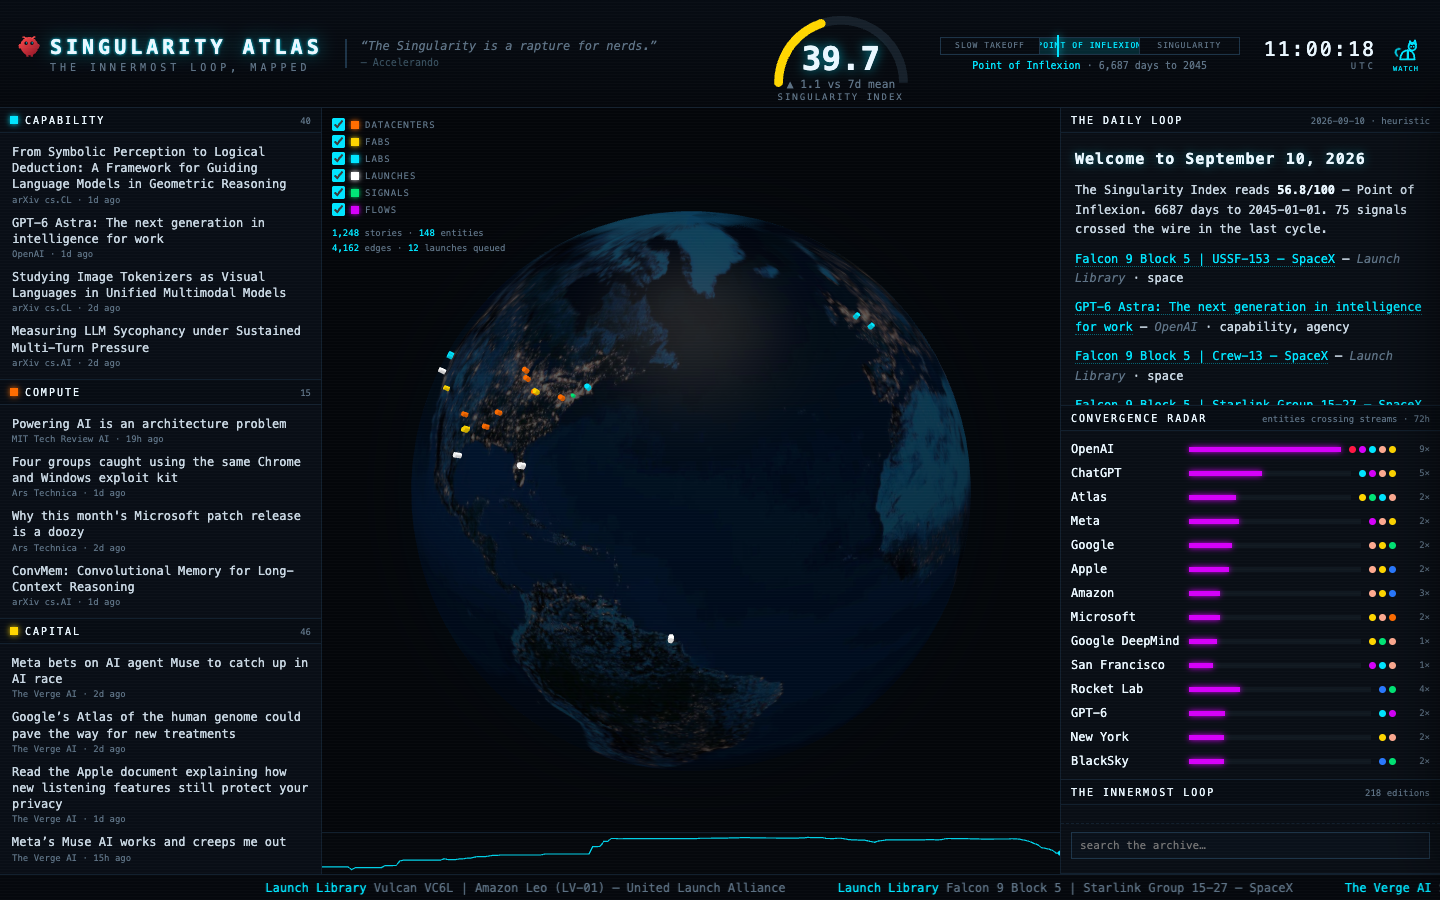
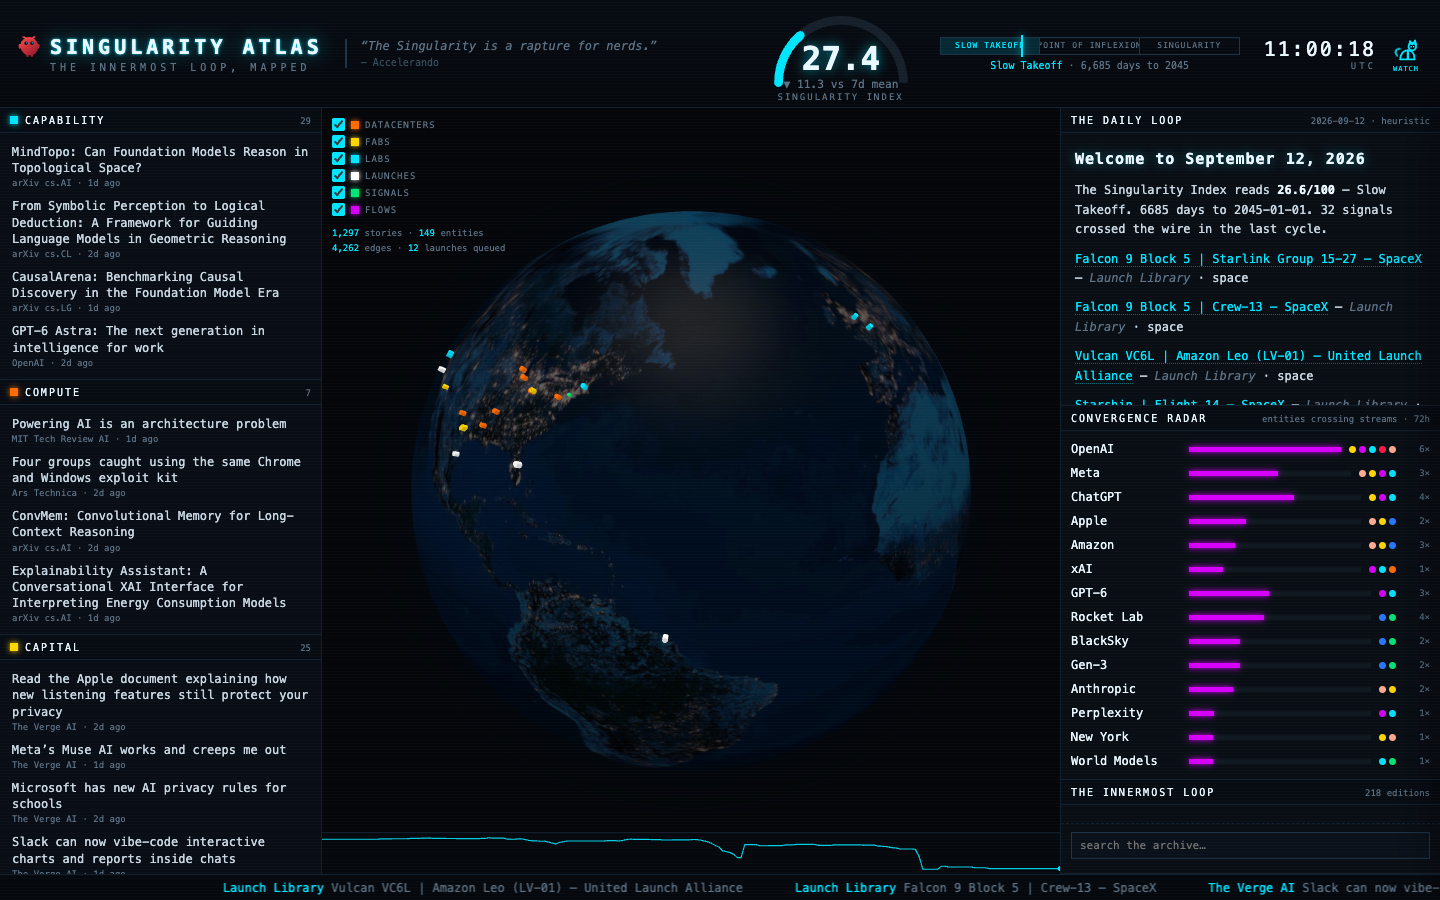
Publish 24h public snapshot 2026-09-12

diff --git a/docs/index.html b/docs/index.html
@@ -47,40 +47,39 @@
     <div class="eyebrow">Public 24h snapshot · not the live globe</div>
     <h1>The Singularity Atlas</h1>
     <p class="lede">Yesterday's board. The live dashboard stays on the machine that runs it. This page is replaced at least daily.</p>
-    <p class="meta">Captured 2026-09-11 07:00 EDT · 42 stories in 24h · graph 1248 stories / 148 entities · brief heuristic</p>
+    <p class="meta">Captured 2026-09-12 07:00 EDT · 31 stories in 24h · graph 1297 stories / 149 entities · brief heuristic</p>
   </header>
   <main>
     <div class="hero">
       <div>
-        <div class="si">39.7<small>Point of Inflexion · /100</small></div>
+        <div class="si">27.4<small>Slow Takeoff · /100</small></div>
       </div>
-      <div class="vecs"><div class="vec"><span class="dot" style="background:#00e5ff"></span><span class="vlabel">Capability</span><span class="vscore">40.3</span></div><div class="vec"><span class="dot" style="background:#ff6d00"></span><span class="vlabel">Compute</span><span class="vscore">14.5</span></div><div class="vec"><span class="dot" style="background:#ffd600"></span><span class="vlabel">Capital</span><span class="vscore">45.5</span></div><div class="vec"><span class="dot" style="background:#00e676"></span><span class="vlabel">Embodiment</span><span class="vscore">15.1</span></div><div class="vec"><span class="dot" style="background:#d500f9"></span><span class="vlabel">Agency</span><span class="vscore">40.5</span></div><div class="vec"><span class="dot" style="background:#ff1744"></span><span class="vlabel">Security</span><span class="vscore">14.7</span></div><div class="vec"><span class="dot" style="background:#2979ff"></span><span class="vlabel">Space</span><span class="vscore">68.0</span></div><div class="vec"><span class="dot" style="background:#ffab91"></span><span class="vlabel">Culture</span><span class="vscore">50.1</span></div></div>
+      <div class="vecs"><div class="vec"><span class="dot" style="background:#00e5ff"></span><span class="vlabel">Capability</span><span class="vscore">29.3</span></div><div class="vec"><span class="dot" style="background:#ff6d00"></span><span class="vlabel">Compute</span><span class="vscore">6.9</span></div><div class="vec"><span class="dot" style="background:#ffd600"></span><span class="vlabel">Capital</span><span class="vscore">25.2</span></div><div class="vec"><span class="dot" style="background:#00e676"></span><span class="vlabel">Embodiment</span><span class="vscore">8.2</span></div><div class="vec"><span class="dot" style="background:#d500f9"></span><span class="vlabel">Agency</span><span class="vscore">25.5</span></div><div class="vec"><span class="dot" style="background:#ff1744"></span><span class="vlabel">Security</span><span class="vscore">0.0</span></div><div class="vec"><span class="dot" style="background:#2979ff"></span><span class="vlabel">Space</span><span class="vscore">64.6</span></div><div class="vec"><span class="dot" style="background:#ffab91"></span><span class="vlabel">Culture</span><span class="vscore">28.2</span></div></div>
     </div>
     <img class="board" src="board.png" alt="The Singularity Atlas dashboard, last capture" />
     <div class="grid">
       <section class="brief">
         <h2>The Daily Loop</h2>
-        <h2>Welcome to September 10, 2026</h2>
-<p>The Singularity Index reads <strong>56.8/100</strong> — Point of Inflexion. 6687 days to 2045-01-01. 75 signals crossed the wire in the last cycle.</p>
-<p><a href="https://ll.thespacedevs.com/2.2.0/launch/3e0456da-14b1-4ac3-b59e-35fefb1d1530/">Falcon 9 Block 5 | USSF-153 — SpaceX</a> — *Launch Library* · space</p>
-<p><a href="https://openai.com/index/gpt-6-astra-next-generation-work">GPT-6 Astra: The next generation in intelligence for work</a> — *OpenAI* · capability, agency</p>
-<p><a href="https://ll.thespacedevs.com/2.2.0/launch/18441371-8b2e-457c-afb5-1ec1b11ab630/">Falcon 9 Block 5 | Crew-13 — SpaceX</a> — *Launch Library* · space</p>
+        <h2>Welcome to September 12, 2026</h2>
+<p>The Singularity Index reads <strong>26.6/100</strong> — Slow Takeoff. 6685 days to 2045-01-01. 32 signals crossed the wire in the last cycle.</p>
 <p><a href="https://ll.thespacedevs.com/2.2.0/launch/d1471f9d-e9d0-4146-8e97-90863e48bfc8/">Falcon 9 Block 5 | Starlink Group 15-27 — SpaceX</a> — *Launch Library* · space</p>
+<p><a href="https://ll.thespacedevs.com/2.2.0/launch/18441371-8b2e-457c-afb5-1ec1b11ab630/">Falcon 9 Block 5 | Crew-13 — SpaceX</a> — *Launch Library* · space</p>
 <p><a href="https://ll.thespacedevs.com/2.2.0/launch/ef9850ad-1096-425b-9d27-f7bbd186e61a/">Vulcan VC6L | Amazon Leo (LV-01) — United Launch Alliance</a> — *Launch Library* · space</p>
 <p><a href="https://ll.thespacedevs.com/2.2.0/launch/7d1afb26-6f9c-429b-9ccf-29012fd1e519/">Starship | Flight 14 — SpaceX</a> — *Launch Library* · space</p>
 <p><a href="https://ll.thespacedevs.com/2.2.0/launch/f4c720ce-0cfd-43e6-b8dd-00273073bc01/">Electron | StriX Launch 12 — Rocket Lab</a> — *Launch Library* · space</p>
+<p><a href="https://ll.thespacedevs.com/2.2.0/launch/ad358a4d-c541-409b-9366-9c2f2da4aeb9/">Falcon 9 Block 5 | O3b mPower 11-13 — SpaceX</a> — *Launch Library* · space</p>
+<p><a href="https://openai.com/index/scaling-storage-one-billion-users-part-one">Rapidly scaling online storage to serve over 1 billion ChatGPT users</a> — *OpenAI* · capital, agency, capability</p>
 <p><a href="https://ll.thespacedevs.com/2.2.0/launch/7bdc412b-c965-4517-a131-f57a01189803/">Ariane 64 Block 2 | Amazon Leo (LE-04) — Arianespace</a> — *Launch Library* · space</p>
+<p><a href="https://ll.thespacedevs.com/2.2.0/launch/b81156da-c0b8-46c8-aebd-8af8d2be83cd/">Electron | Happily Ever Faster (BlackSky Gen-3 5) — Rocket Lab</a> — *Launch Library* · space, embodiment</p>
 <p><a href="https://ll.thespacedevs.com/2.2.0/launch/da43dc2c-00af-4cc1-8ef1-90a60b2eb9e5/">Falcon 9 Block 5 | SDA Tranche 1 Transport Layer A — SpaceX</a> — *Launch Library* · space</p>
-<p><a href="https://arxiv.org/abs/2609.10335v1">From Symbolic Perception to Logical Deduction: A Framework for Guiding Language Models in Geometric Reasoning</a> — *arXiv cs.CL* · agency, capability, culture</p>
 <p>*Heuristic edition — local LLM offline.*</p>
       </section>
       <aside>
         <h2>Crossing streams</h2>
-        <ul><li><strong>OpenAI</strong> <span class="muted">security, agency, capability, culture, capital</span></li><li><strong>ChatGPT</strong> <span class="muted">capability, agency, culture, capital</span></li><li><strong>Atlas</strong> <span class="muted">capital, embodiment, capability, culture</span></li><li><strong>Meta</strong> <span class="muted">agency, culture, capital</span></li><li><strong>Google</strong> <span class="muted">culture, capital, embodiment</span></li><li><strong>Apple</strong> <span class="muted">culture, capital, space</span></li><li><strong>Amazon</strong> <span class="muted">culture, capital, space</span></li><li><strong>Microsoft</strong> <span class="muted">capital, culture, compute</span></li><li><strong>Google DeepMind</strong> <span class="muted">capital, embodiment, culture</span></li><li><strong>San Francisco</strong> <span class="muted">agency, capability, culture</span></li><li><strong>Rocket Lab</strong> <span class="muted">space, embodiment</span></li><li><strong>GPT-6</strong> <span class="muted">capability, agency</span></li></ul>
-        <h2>Feeds 13/15</h2>
+        <ul><li><strong>OpenAI</strong> <span class="muted">capital, agency, capability, security, culture</span></li><li><strong>Meta</strong> <span class="muted">culture, capital, agency, capability</span></li><li><strong>ChatGPT</strong> <span class="muted">capital, agency, capability</span></li><li><strong>Apple</strong> <span class="muted">culture, capital, space</span></li><li><strong>Amazon</strong> <span class="muted">culture, capital, space</span></li><li><strong>xAI</strong> <span class="muted">agency, capability, compute</span></li><li><strong>GPT-6</strong> <span class="muted">agency, capability</span></li><li><strong>Rocket Lab</strong> <span class="muted">space, embodiment</span></li><li><strong>BlackSky</strong> <span class="muted">space, embodiment</span></li><li><strong>Gen-3</strong> <span class="muted">space, embodiment</span></li><li><strong>Anthropic</strong> <span class="muted">culture, capital</span></li><li><strong>Perplexity</strong> <span class="muted">agency, capability</span></li></ul>
+        <h2>Feeds 14/15</h2>
         <ul><li class="ok"><code>verge-ai</code> 10 items</li><li class="ok"><code>arxiv-cs-lg</code> 12 items</li><li class="ok"><code>arxiv-cs-ai</code> 12 items</li><li class="ok"><code>launches</code> 20 items</li><li class="ok"><code>ars</code> 20 items</li><li class="ok"><code>arxiv-cs-cl</code> 12 items</li><li class="ok"><code>mit-tr-ai</code> 10 items</li><li class="ok"><code>interconnects</code> 20 items</li><li class="ok"><code>import-ai</code> 20 items</li><li class="ok"><code>openai</code> 25 items</li><li class="ok"><code>deepmind</code> 25 items</li><li class="fail"><code>venturebeat-ai</code> 0 items · venturebeat-ai: HTTPStatusError: Client error &#x27;429 Too Many Requests&#x27; for url &#x27;https://venturebeat.com/category/ai/feed/&#x27;
-For more information check: https://developer.mozilla.org/en-US/docs/Web/HTTP/Status/429</li><li class="ok"><code>arxiv-cs-ro</code> 12 items</li><li class="ok"><code>hn-ai</code> 71 items</li><li class="fail"><code>gdelt-ai</code> 0 items · gdelt-ai: HTTPStatusError: Client error &#x27;429 Too Many Requests&#x27; for url &#x27;https://api.gdeltproject.org/api/v2/doc/doc?query=%22artificial%20intelligence%22&amp;mode=artlist&amp;maxrecords=40&amp;format=json&amp;sort=hybridrel&#x27;
-For more information check: https://developer.mozilla.org/en-US/docs/Web/HTTP/Status/429</li></ul>
+For more information check: https://developer.mozilla.org/en-US/docs/Web/HTTP/Status/429</li><li class="ok"><code>arxiv-cs-ro</code> 12 items</li><li class="ok"><code>hn-ai</code> 71 items</li><li class="ok"><code>gdelt-ai</code> 40 items</li></ul>
       </aside>
     </div>
   </main>
